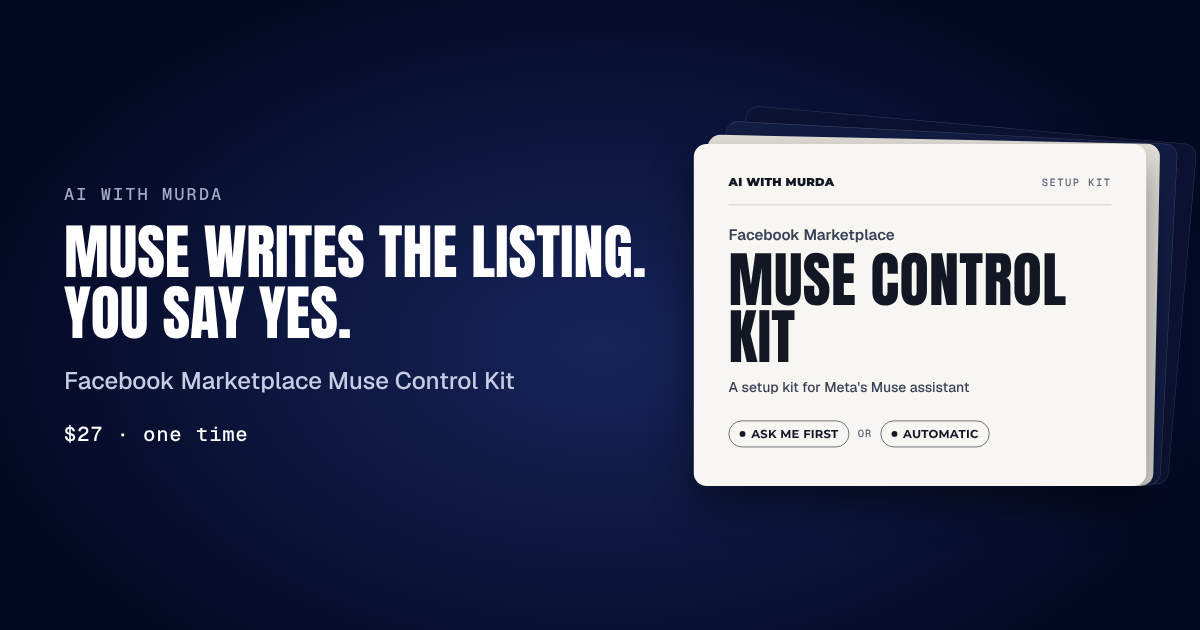
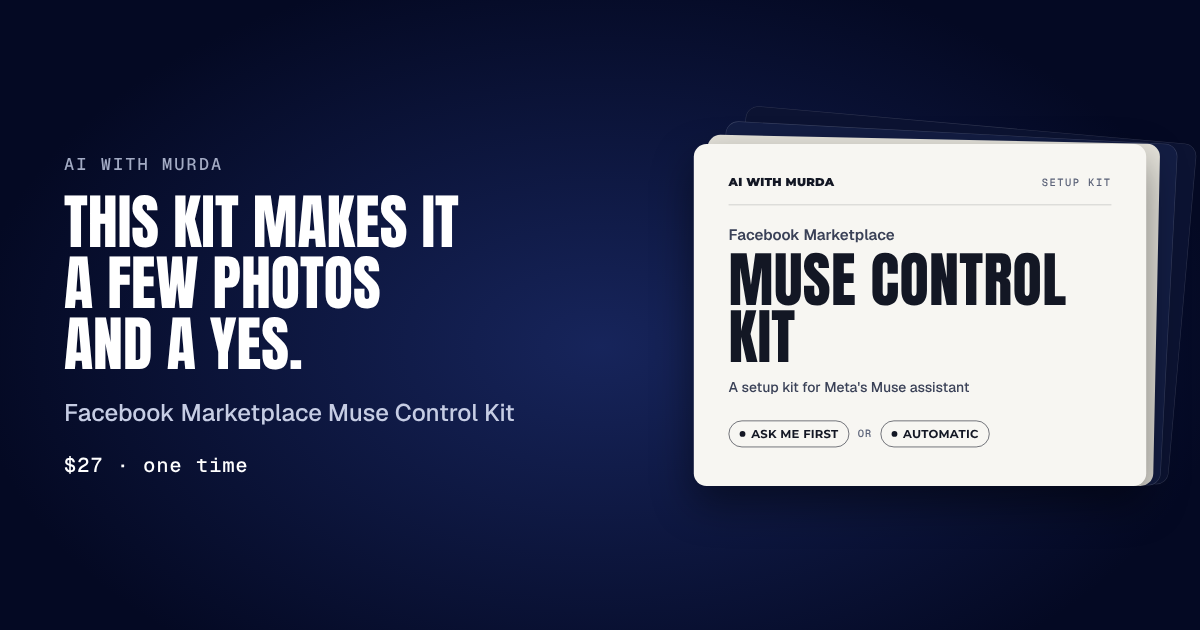
Muse kit page: apply Noor's updated message
- Headline exactly "This kit makes it a few photos and a yes.", with the
  pain line "Posting is the hard part of selling on Marketplace." under it
- Problem section names the automation word for word, with what stays
  with the seller (every listing, agreed price and pickup time) beside it
- What you get lists the five pieces from the updated brief (still a
  marked placeholder)
- Kit share card and description lead with the new headline
- Copy checks also ban "hands-free", "on autopilot", "set it and forget
  it" and hints that buyers won't know it's AI

Claude-Session: https://claude.ai/code/session_015SgmxJWQAAbxheRbjeag4p

Changed region(s): [[0.0308, 0.3016, 0.555, 0.754], [0.0617, 0.2413, 0.185, 0.2714], [0.0308, 0.7238, 0.0925, 0.754]]

diff --git a/src/pages/SalesPage.jsx b/src/pages/SalesPage.jsx
@@ -1,6 +1,6 @@
 import React from "react";
 import { ArrowRight, Check, Minus, Plus, Play, X } from "lucide-react";
-import { checkoutHref, checkoutIsPlaceholder, faq, kitPieces, museKit, setups } from "../data/museKit.js";
+import { automationText, checkoutHref, checkoutIsPlaceholder, faq, headline, kitPieces, museKit, painLine, sellerKeeps, setups } from "../data/museKit.js";
 
 /*
   The one sales page (Murad's brief, Nov 15). Sections in the brief's order:
@@ -80,11 +80,10 @@ export function SalesPage() {
       {/* 1. Above the fold: the result, the video, the button. */}
       <section className="sp-hero" aria-labelledby="sp-title">
         <div className="sp-col">
-          <p className="sp-kicker">For Facebook Marketplace sellers</p>
-          <h1 className="mx-display sp-h1" id="sp-title">Muse writes the listing. <span>You say yes.</span></h1>
-          <p className="sp-lede">
-            A setup kit for Meta's Muse assistant. Send Muse photos of an item, answer its questions, and approve the listing it writes.
-          </p>
+          <p className="sp-kicker">A Muse setup kit for Facebook Marketplace sellers</p>
+          {/* Noor's brief, Nov 15: the headline is exact, do not reword it. The pain line goes right under it. */}
+          <h1 className="mx-display sp-h1" id="sp-title">{headline}</h1>
+          <p className="sp-lede">{painLine}</p>
           <SalesVideo />
           <div className="sp-buy-row">
             <BuyButton />
@@ -99,6 +98,19 @@ export function SalesPage() {
         <p className="sp-text">
           Every item needs a write-up and a price. Then the same buyer questions come in, again and again. It all takes time, so items sit unposted.
         </p>
+        {/* The automation, named, with what stays with the seller right next to it. Only the Automatic setup answers buyers by itself. */}
+        <div className="sp-split">
+          <div className="sp-split-part">
+            <h3 className="sp-h3">What it automates</h3>
+            <p>{automationText}</p>
+          </div>
+          <div className="sp-split-part">
+            <h3 className="sp-h3">What stays with you</h3>
+            <ul className="sp-keep">
+              {sellerKeeps.map((item) => <li key={item}><Check className="mx-i" aria-hidden="true" /><span>{item}</span></li>)}
+            </ul>
+          </div>
+        </div>
       </Section>
 
       {/* 3. Who it's for, and who it's not for. */}
@@ -127,7 +139,7 @@ export function SalesPage() {
           />
         </figure>
         <Placeholder title="Confirm this list">
-          Check the four pieces below and add one short line on what each one does.
+          Check the five pieces below and add one short line on what each one does.
         </Placeholder>
         <ol className="sp-pieces">
           {kitPieces.map((piece) => <li key={piece}>{piece}</li>)}

diff --git a/src/data/museKit.js b/src/data/museKit.js
@@ -5,9 +5,11 @@
   so the sales page can be finished by editing this file only.
 
   Copy rules (from Murad's brief): no income or sales promises; never "guaranteed",
-  "proven", "battle-tested", "verified", "fully automated", "draft-only" or "you hit
-  send yourself"; no countdowns, scarcity, "Most Popular", value totals or bonuses;
-  no em dashes; short plain sentences; no facts about Murad that he did not write.
+  "proven", "battle-tested", "verified", "fully automated", "hands-free", "on autopilot",
+  "set it and forget it", "draft-only" or "you hit send yourself"; never say or hint that
+  buyers won't know it's AI; no countdowns, scarcity, "Most Popular", value totals or
+  bonuses; no em dashes; short plain sentences; no facts about Murad that he did not write.
+  Only the Automatic setup answers buyers by itself; never write that Ask me first does.
 
   Plain ESM only: scripts/postbuild.mjs imports this through siteMetadata.js.
 */
@@ -28,6 +30,12 @@ export const museKit = {
   salesVideoYouTubeId: null,
 };
 
+// The message (Noor's brief, Nov 15), word for word. Lead with posting, then name the automation.
+export const headline = "This kit makes it a few photos and a yes.";
+export const painLine = "Posting is the hard part of selling on Marketplace.";
+export const automationText = "It automates the busywork. On the automatic setup, once Muse knows an item, it answers the questions buyers ask most by itself. Offers and pickup times come to you ready to answer.";
+export const sellerKeeps = ["Every listing", "Every agreed price", "Every pickup time"];
+
 export const checkoutHref = museKit.checkoutUrl || "#placeholder-checkout-link";
 export const checkoutIsPlaceholder = !museKit.checkoutUrl;
 
@@ -46,8 +54,8 @@ export const setups = [
 ];
 
 // Section 4. PLACEHOLDER: Murad confirms the exact list and adds one line on each piece.
-// The four names come from his brief; nothing else about them is assumed.
-export const kitPieces = ["The setup prompt", "The setup steps", "The buyer reply guide", "The stop and safety sheet"];
+// The five names come from his brief (Nov 15 update); nothing else about them is assumed.
+export const kitPieces = ["The two setup prompts", "The \"Which setup is for you\" guide", "The setup steps", "The buyer reply guide", "The stop and safety sheet"];
 
 // Section 11. `check: true` marks an answer Murad should confirm before launch.
 export const faq = [

diff --git a/src/site/sales.css b/src/site/sales.css
@@ -18,7 +18,7 @@
 
 /* Headings and text */
 .sp-kicker { font: 500 var(--fs-mono)/1.4 var(--font-mono); letter-spacing: .1em; text-transform: uppercase; color: var(--sp-muted); }
-.sp-h1 { margin-top: var(--sp-3); font-size: clamp(2.75rem, 12.5vw, 5rem); line-height: 1; }
+.sp-h1 { margin-top: var(--sp-3); font-size: clamp(2.5rem, 11vw, 5rem); line-height: 1; text-wrap: balance; }
 .sp-h1 span { display: block; }
 .sp-h2 { font-size: clamp(2rem, 8.5vw, 3rem); line-height: 1.02; }
 .sp-h3 { font: 650 1.125rem/1.3 var(--font-sans); letter-spacing: -.01em; color: var(--white); }
@@ -53,6 +53,18 @@
 .sp-placeholder-note { font-size: var(--fs-sm); line-height: 1.5; color: var(--sp-muted); }
 .sp-placeholder-inline { padding: .5rem .75rem; border: 1.5px dashed rgba(255, 255, 255, .28); border-radius: var(--r-sm);
   font: 500 .8125rem/1.45 var(--font-mono); color: var(--sp-muted); text-align: left; }
+
+/* 2. The automation and what stays with the seller, side by side from tablet up. */
+.sp-split { display: grid; gap: var(--sp-6); margin-top: var(--sp-8); }
+.sp-split-part .sp-h3 { margin-top: 0; }
+.sp-split-part p { margin-top: var(--sp-3); font-size: 1.0625rem; line-height: 1.6; color: var(--sp-quiet); }
+.sp-keep { display: grid; gap: var(--sp-3); margin-top: var(--sp-4); }
+.sp-keep li { display: grid; grid-template-columns: 1.5rem minmax(0, 1fr); gap: .75rem; align-items: start; font-size: 1.0625rem; line-height: 1.5; color: var(--white); }
+.sp-keep .mx-i { width: 1.25rem; height: 1.25rem; margin-top: .2rem; color: var(--white); stroke-width: 2.25; }
+@media (min-width: 40rem) {
+  .sp-split { grid-template-columns: minmax(0, 1.4fr) minmax(0, 1fr); gap: var(--sp-8); }
+  .sp-split-part + .sp-split-part { padding-left: var(--sp-6); border-left: 1px solid var(--sp-line); }
+}
 
 /* 3. Who it's for */
 .sp-list { display: grid; gap: var(--sp-3); margin-top: var(--sp-5); }

diff --git a/src/data/siteMetadata.js b/src/data/siteMetadata.js
@@ -19,7 +19,7 @@ export const publicPageMetadata = {
   },
   "/tools/musekit": {
     title: `${museKit.name} | AI with Murda`,
-    description: `A setup kit for Meta's Muse assistant, for Facebook Marketplace sellers. Muse writes your listings and replies, and you approve listings, prices and pickup times. ${museKit.price}, one time.`,
+    description: `This kit makes it a few photos and a yes. A setup kit for Meta's Muse assistant, for Facebook Marketplace sellers. Muse writes the listing, and you approve listings, prices and pickup times. ${museKit.price}, one time.`,
     ...kitShareImage,
   },
   "/about": {
